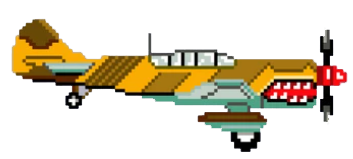
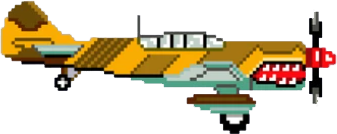
Clouds added, plane rotation added

diff --git a/PyWings/main.py b/PyWings/main.py
@@ -2,6 +2,7 @@ import pygame
 import os
 from Background import Background
 from Obstacle import Obstacle
+from Cloud import Cloud
 
 pygame.init()
 
@@ -28,15 +29,24 @@ PLANE_IMAGE = pygame.image.load(
 PLANE = pygame.transform.scale(
     PLANE_IMAGE, (PLANE_WIDTH, PLANE_HEIGHT))
 
+PLANE_ROTATE_UP = pygame.transform.rotate(PLANE, 15)
+PLANE_ROTATE_DOWN = pygame.transform.rotate(PLANE, -15)
+
 BG = Background(WIN)
 
 
-def draw_window(plane, score):
+def draw_window(plane, score, keys_pressed, clouds):
     # WIN.blit(BG, (0, 0))
 
     pygame.draw.rect(WIN, (0, 0, 0), BORDER)
 
-    WIN.blit(PLANE, plane)
+    if keys_pressed[pygame.K_w] and plane.y - VEL > 0:
+        WIN.blit(PLANE_ROTATE_UP, plane)
+    elif keys_pressed[pygame.K_s] and plane.y + VEL + plane.height < HEIGHT - 15:
+        WIN.blit(PLANE_ROTATE_DOWN, plane)
+    else:
+        WIN.blit(PLANE, plane)
+
     WIN.blit(score, (10, 10))
 
     pygame.display.update()
@@ -60,8 +70,11 @@ def main():
 
     clock = pygame.time.Clock()
     run = True
-    spawn_timer = 0
+    pipe_spawn_timer = 0
+    cloud_spawn_timer = 0
+
     pipes = []
+    clouds = []
     gap_between_pipes = 100
     gap_between_upper_and_lower_pipe = 200
     movement_speed = 10
@@ -86,12 +99,22 @@ def main():
         BG.update()
         BG.render()
 
-        spawn_timer += 1
+        pipe_spawn_timer += 1
+        cloud_spawn_timer += 1
 
-        if spawn_timer >= gap_between_pipes:  # use different values for distance between pipes
+        if pipe_spawn_timer >= gap_between_pipes:  # use different values for distance between pipes
             pipes.append(
                 Obstacle(WIN, gap_between_upper_and_lower_pipe, movement_speed))
-            spawn_timer = 0
+            pipe_spawn_timer = 0
+
+        if cloud_spawn_timer >= 75:
+            clouds.append(Cloud(WIN))
+            cloud_spawn_timer = 0
+
+        for cloud in clouds:
+            cloud.draw()
+            cloud.update()
+
         for pipe in pipes:
             pipe.draw()
             pipe.update()
@@ -119,7 +142,7 @@ def main():
         score_text = SCORE_FONT.render(
             f"Wynik: {score}", 1, (0, 0, 0))
 
-        draw_window(plane, score_text)
+        draw_window(plane, score_text, keys_pressed, clouds)
 
     main()
 

diff --git a/PyWings/Cloud.py b/PyWings/Cloud.py
@@ -1,0 +1,33 @@
+import random
+import pygame
+import os
+
+spawn_timer = 0
+movement_speed = 2
+# gap_size = 300
+
+width = 900
+height = 500
+
+
+class Cloud:
+    def __init__(self, screen, x_pos=width):
+        self.movement_speed = movement_speed
+        self.x_pos = x_pos
+        self.screen = screen
+        self.cloud_image = pygame.image.load(
+            os.path.join('images', f'cloud{random.randint(1, 4)}.png'))
+        self.cloud_rect = self.cloud_image.get_rect()
+        self.cloud_rect.x = self.x_pos
+
+    def draw(self):
+        self.cloud = pygame.transform.rotate(
+            self.cloud_image, 180)
+
+        # pygame.draw.rect(self.screen, (0, 0, 0), self.upper_rect)
+        self.screen.blit(self.cloud, self.cloud_rect)
+        # pygame.draw.rect(self.screen, (0, 0, 0), self.lower_rect)
+
+    def update(self):
+        self.cloud_rect.move_ip(-movement_speed, 0)
+        self.cloud_rect.move_ip(-movement_speed, 0)
